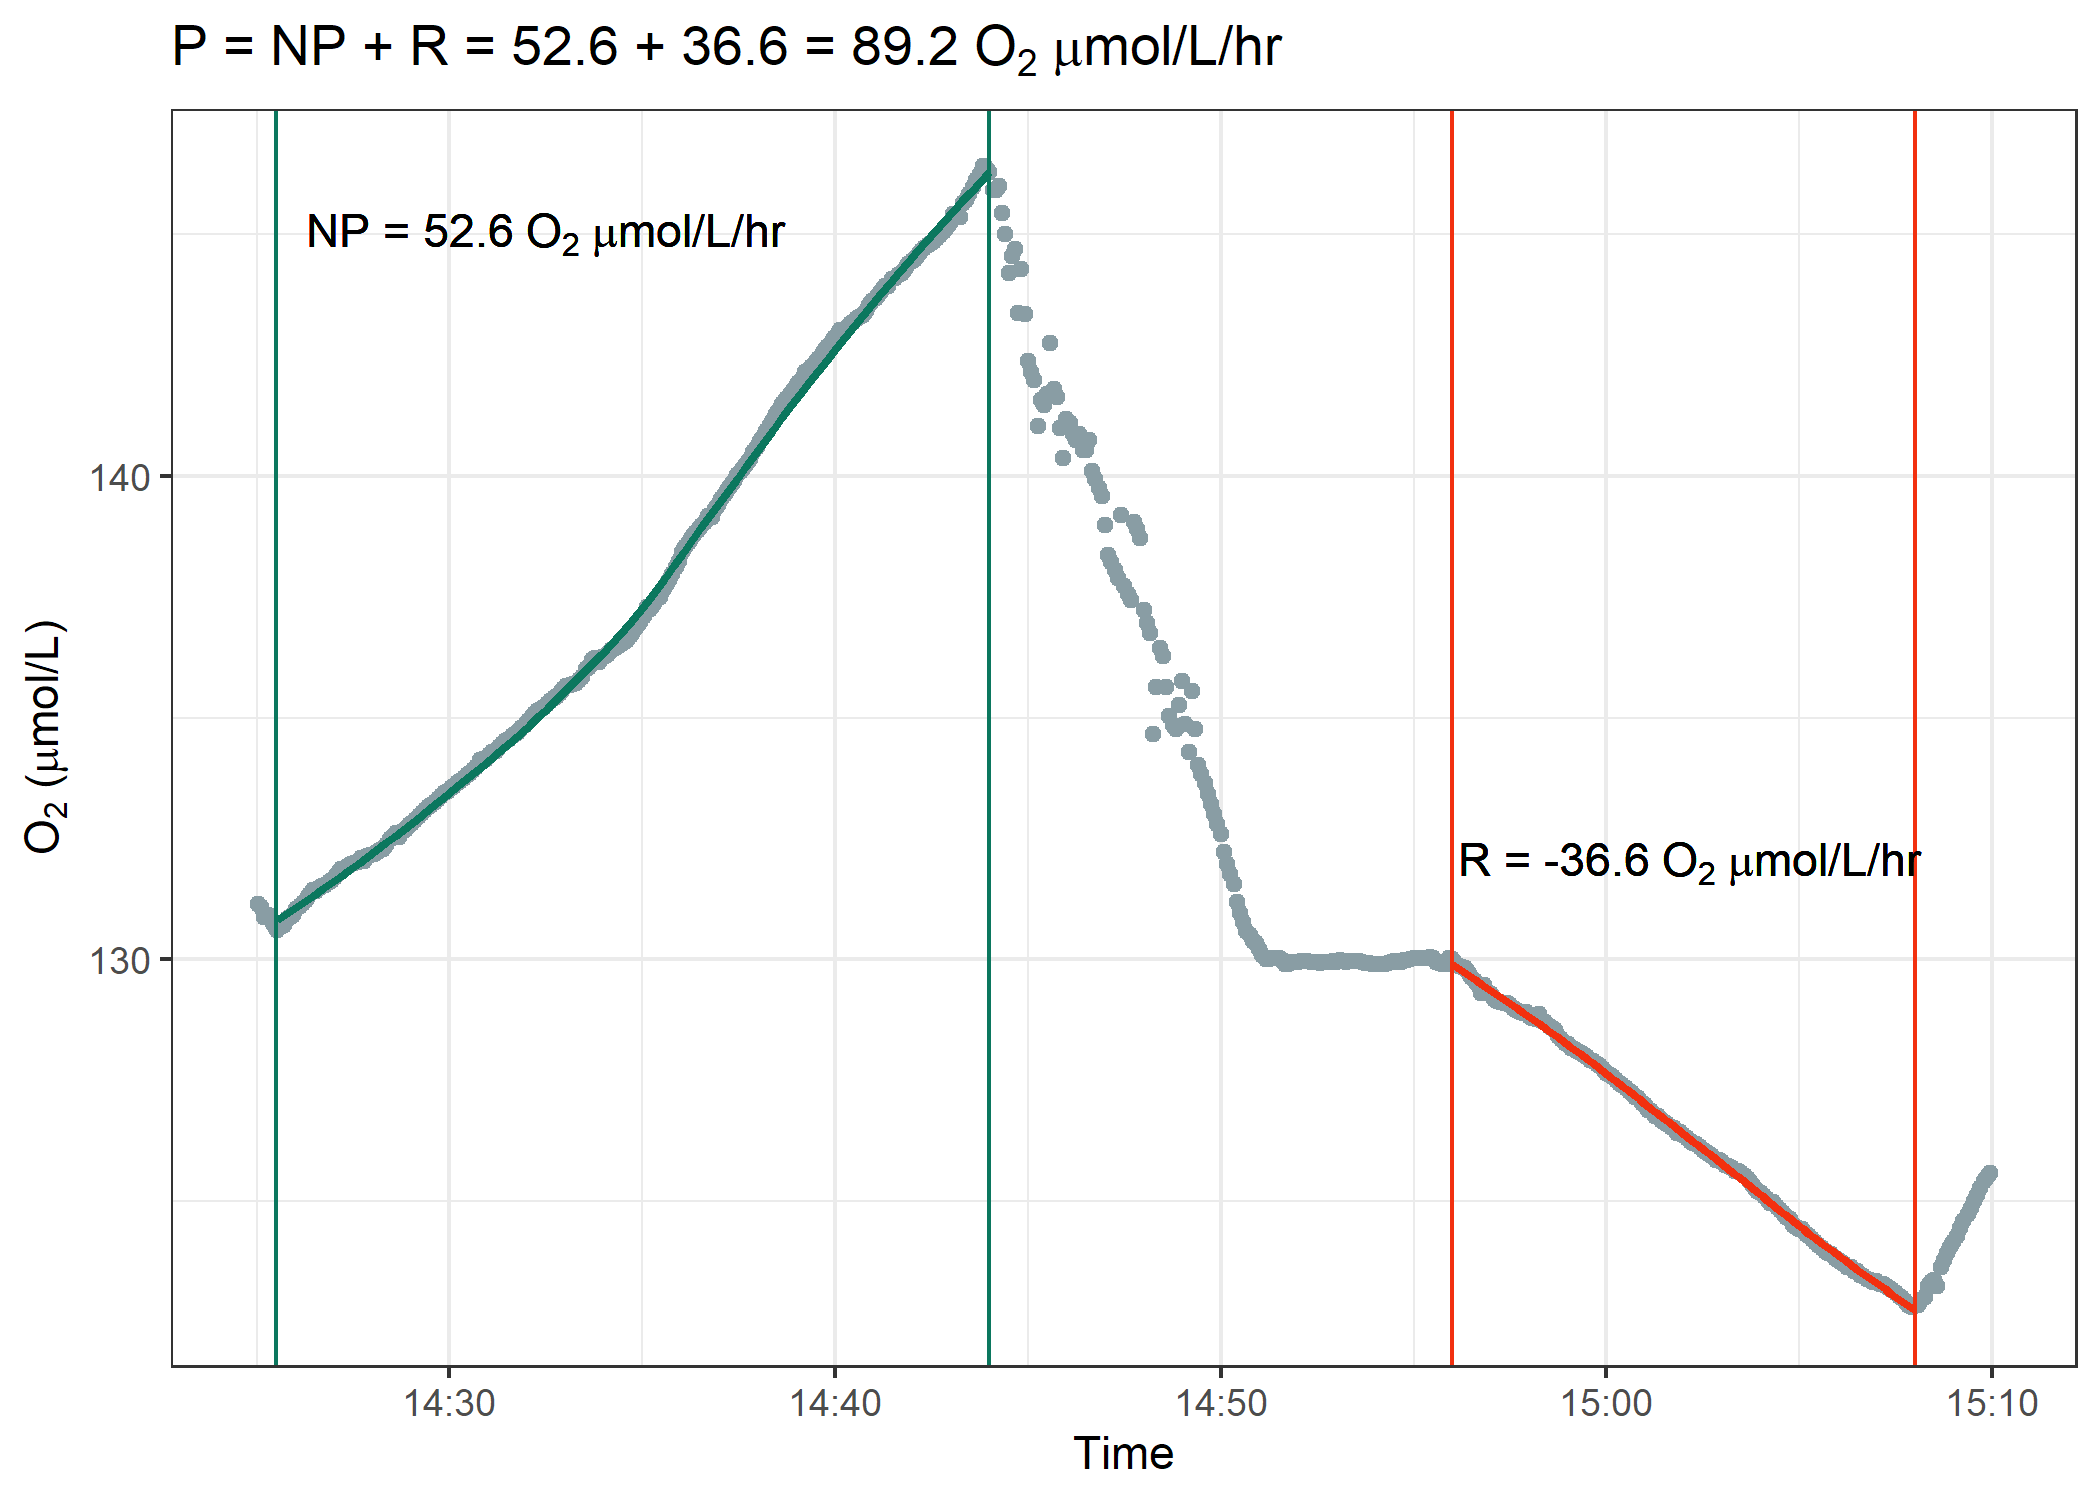
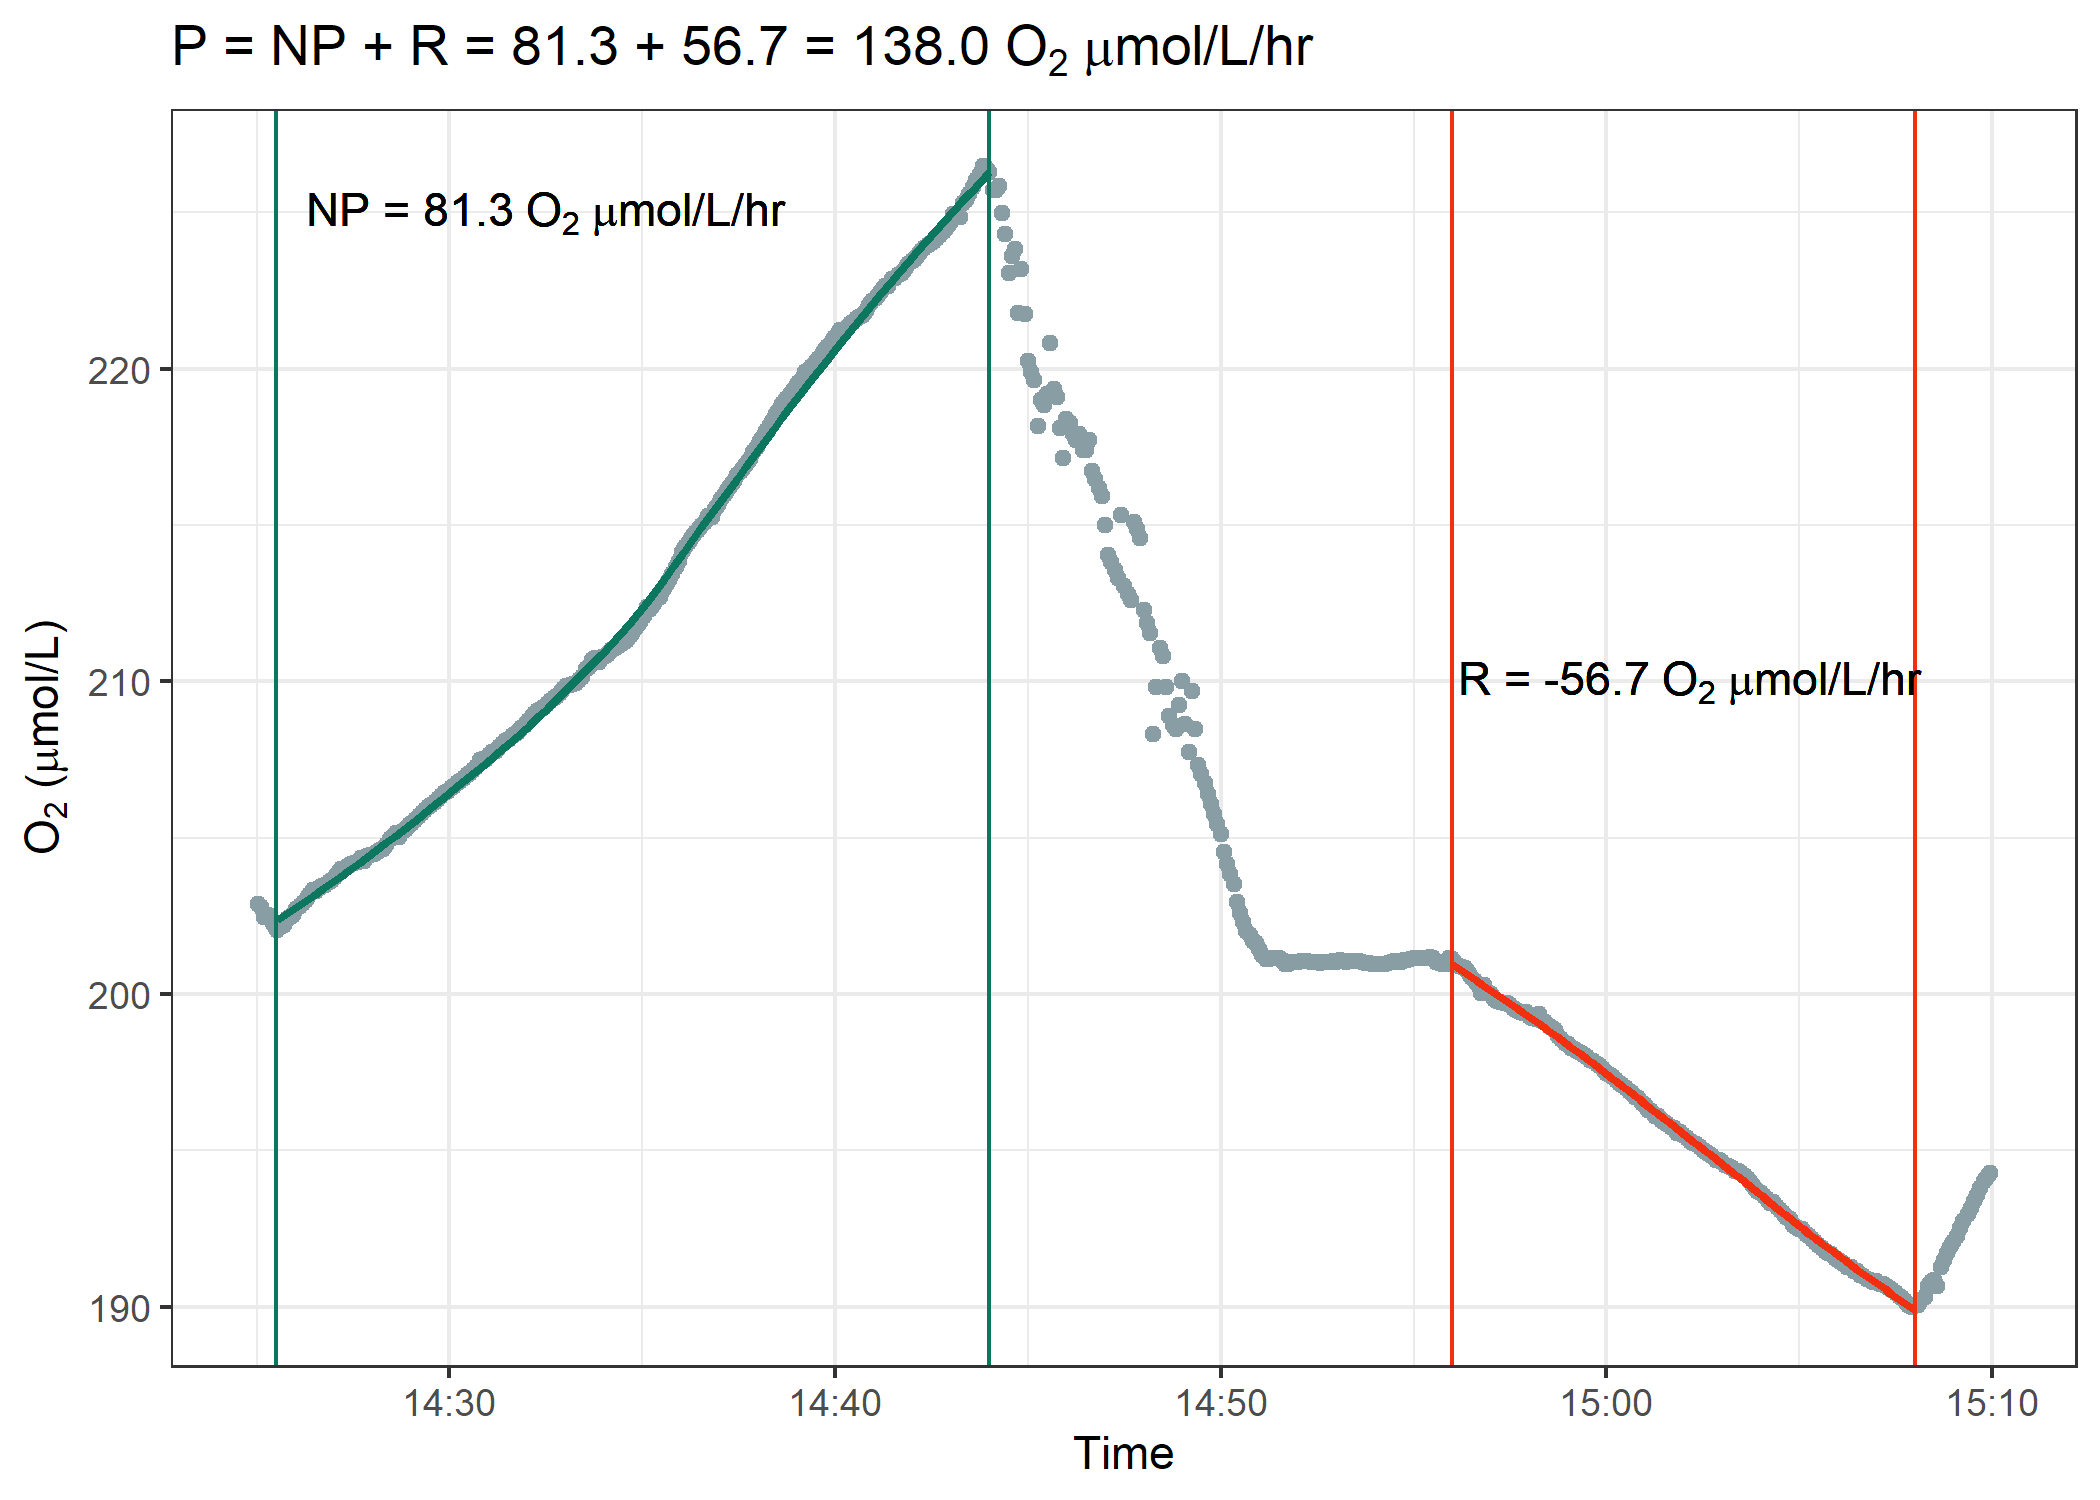
fix O2 calibration

diff --git a/_posts/2023-09-15-seawaterChemistryCalculations.md b/_posts/2023-09-15-seawaterChemistryCalculations.md
@@ -310,19 +310,19 @@ umol/L
 35
 </td>
 <td style="text-align:right;">
-0.75
+1.50
 </td>
 <td style="text-align:right;">
-23.43838
+46.87676
 </td>
 <td style="text-align:right;">
-11.10930
+22.21860
 </td>
 <td style="text-align:right;">
-12.05980
+24.11961
 </td>
 <td style="text-align:right;">
-13.02182
+26.04365
 </td>
 </tr>
 <tr>
@@ -350,39 +350,19 @@ umol/L
 35
 </td>
 <td style="text-align:right;">
-3.25
+3.50
 </td>
 <td style="text-align:right;">
-101.56631
+109.37910
 </td>
 <td style="text-align:right;">
-48.14029
+51.84339
 </td>
 <td style="text-align:right;">
-52.25915
+56.27908
 </td>
 <td style="text-align:right;">
-56.42791
-</td>
-</tr>
-<tr>
-<td style="text-align:right;">
-35
-</td>
-<td style="text-align:right;">
-3.75
-</td>
-<td style="text-align:right;">
-117.19189
-</td>
-<td style="text-align:right;">
-55.54649
-</td>
-<td style="text-align:right;">
-60.29902
-</td>
-<td style="text-align:right;">
-65.10913
+60.76852
 </td>
 </tr>
 <tr>
@@ -390,39 +370,19 @@ umol/L
 35
 </td>
 <td style="text-align:right;">
-4.25
+4.50
 </td>
 <td style="text-align:right;">
-132.81748
+140.63027
 </td>
 <td style="text-align:right;">
-62.95269
+66.65579
 </td>
 <td style="text-align:right;">
-68.33889
+72.35882
 </td>
 <td style="text-align:right;">
-73.79034
-</td>
-</tr>
-<tr>
-<td style="text-align:right;">
-35
-</td>
-<td style="text-align:right;">
-5.00
-</td>
-<td style="text-align:right;">
-156.25586
-</td>
-<td style="text-align:right;">
-74.06198
-</td>
-<td style="text-align:right;">
-80.39869
-</td>
-<td style="text-align:right;">
-86.81217
+78.13095
 </td>
 </tr>
 <tr>
@@ -430,19 +390,99 @@ umol/L
 35
 </td>
 <td style="text-align:right;">
-8.50
+4.75
 </td>
 <td style="text-align:right;">
-265.63496
+148.44307
 </td>
 <td style="text-align:right;">
-125.90537
+70.35889
 </td>
 <td style="text-align:right;">
-136.67777
+76.37876
 </td>
 <td style="text-align:right;">
-147.58068
+82.47156
+</td>
+</tr>
+<tr>
+<td style="text-align:right;">
+35
+</td>
+<td style="text-align:right;">
+5.75
+</td>
+<td style="text-align:right;">
+179.69424
+</td>
+<td style="text-align:right;">
+85.17128
+</td>
+<td style="text-align:right;">
+92.45849
+</td>
+<td style="text-align:right;">
+99.83399
+</td>
+</tr>
+<tr>
+<td style="text-align:right;">
+35
+</td>
+<td style="text-align:right;">
+6.00
+</td>
+<td style="text-align:right;">
+187.50703
+</td>
+<td style="text-align:right;">
+88.87438
+</td>
+<td style="text-align:right;">
+96.47843
+</td>
+<td style="text-align:right;">
+104.17460
+</td>
+</tr>
+<tr>
+<td style="text-align:right;">
+35
+</td>
+<td style="text-align:right;">
+6.75
+</td>
+<td style="text-align:right;">
+210.94541
+</td>
+<td style="text-align:right;">
+99.98368
+</td>
+<td style="text-align:right;">
+108.53823
+</td>
+<td style="text-align:right;">
+117.19643
+</td>
+</tr>
+<tr>
+<td style="text-align:right;">
+35
+</td>
+<td style="text-align:right;">
+8.00
+</td>
+<td style="text-align:right;">
+250.00938
+</td>
+<td style="text-align:right;">
+118.49917
+</td>
+<td style="text-align:right;">
+128.63791
+</td>
+<td style="text-align:right;">
+138.89947
 </td>
 </tr>
 <tr>
@@ -463,46 +503,6 @@ umol/L
 </td>
 <td style="text-align:right;">
 151.92129
-</td>
-</tr>
-<tr>
-<td style="text-align:right;">
-35
-</td>
-<td style="text-align:right;">
-9.50
-</td>
-<td style="text-align:right;">
-296.88613
-</td>
-<td style="text-align:right;">
-140.71777
-</td>
-<td style="text-align:right;">
-152.75751
-</td>
-<td style="text-align:right;">
-164.94312
-</td>
-</tr>
-<tr>
-<td style="text-align:right;">
-35
-</td>
-<td style="text-align:right;">
-10.00
-</td>
-<td style="text-align:right;">
-312.51172
-</td>
-<td style="text-align:right;">
-148.12397
-</td>
-<td style="text-align:right;">
-160.79738
-</td>
-<td style="text-align:right;">
-173.62433
 </td>
 </tr>
 </tbody>
@@ -556,11 +556,17 @@ respirometry_data %>%
                                         ymd_hms("2023-09-15 15:25:00 UTC")) ~ 123,
                           # do this for all chamber and start/stop times
                           TRUE ~ NA)) %>%
+  group_by(chamber) %>%
+   # need to linearly correct oxygen since calibration was wonky
+ mutate(baseLine = subset(.,row_number()<=5) %>% pull(O2) %>% mean(),
+        O2 = O2*(1+(202.6-baseLine)/baseLine)) %>%
+  ungroup() %>%
   # remove data when not inside a incubation
   drop_na(type,coralID) %>%
   group_by(coralID, type) %>%
   # create minute column
-  mutate(min = as.numeric(datetime - first(datetime))/60) %>%
+  mutate(min = as.numeric(datetime - first(datetime))/60)
+    select(-baseLine)) %>%
   # nest individual incubations within coralID/type definitions
   nest() %>%
   # create a linear model for each incubation, extract the slope
